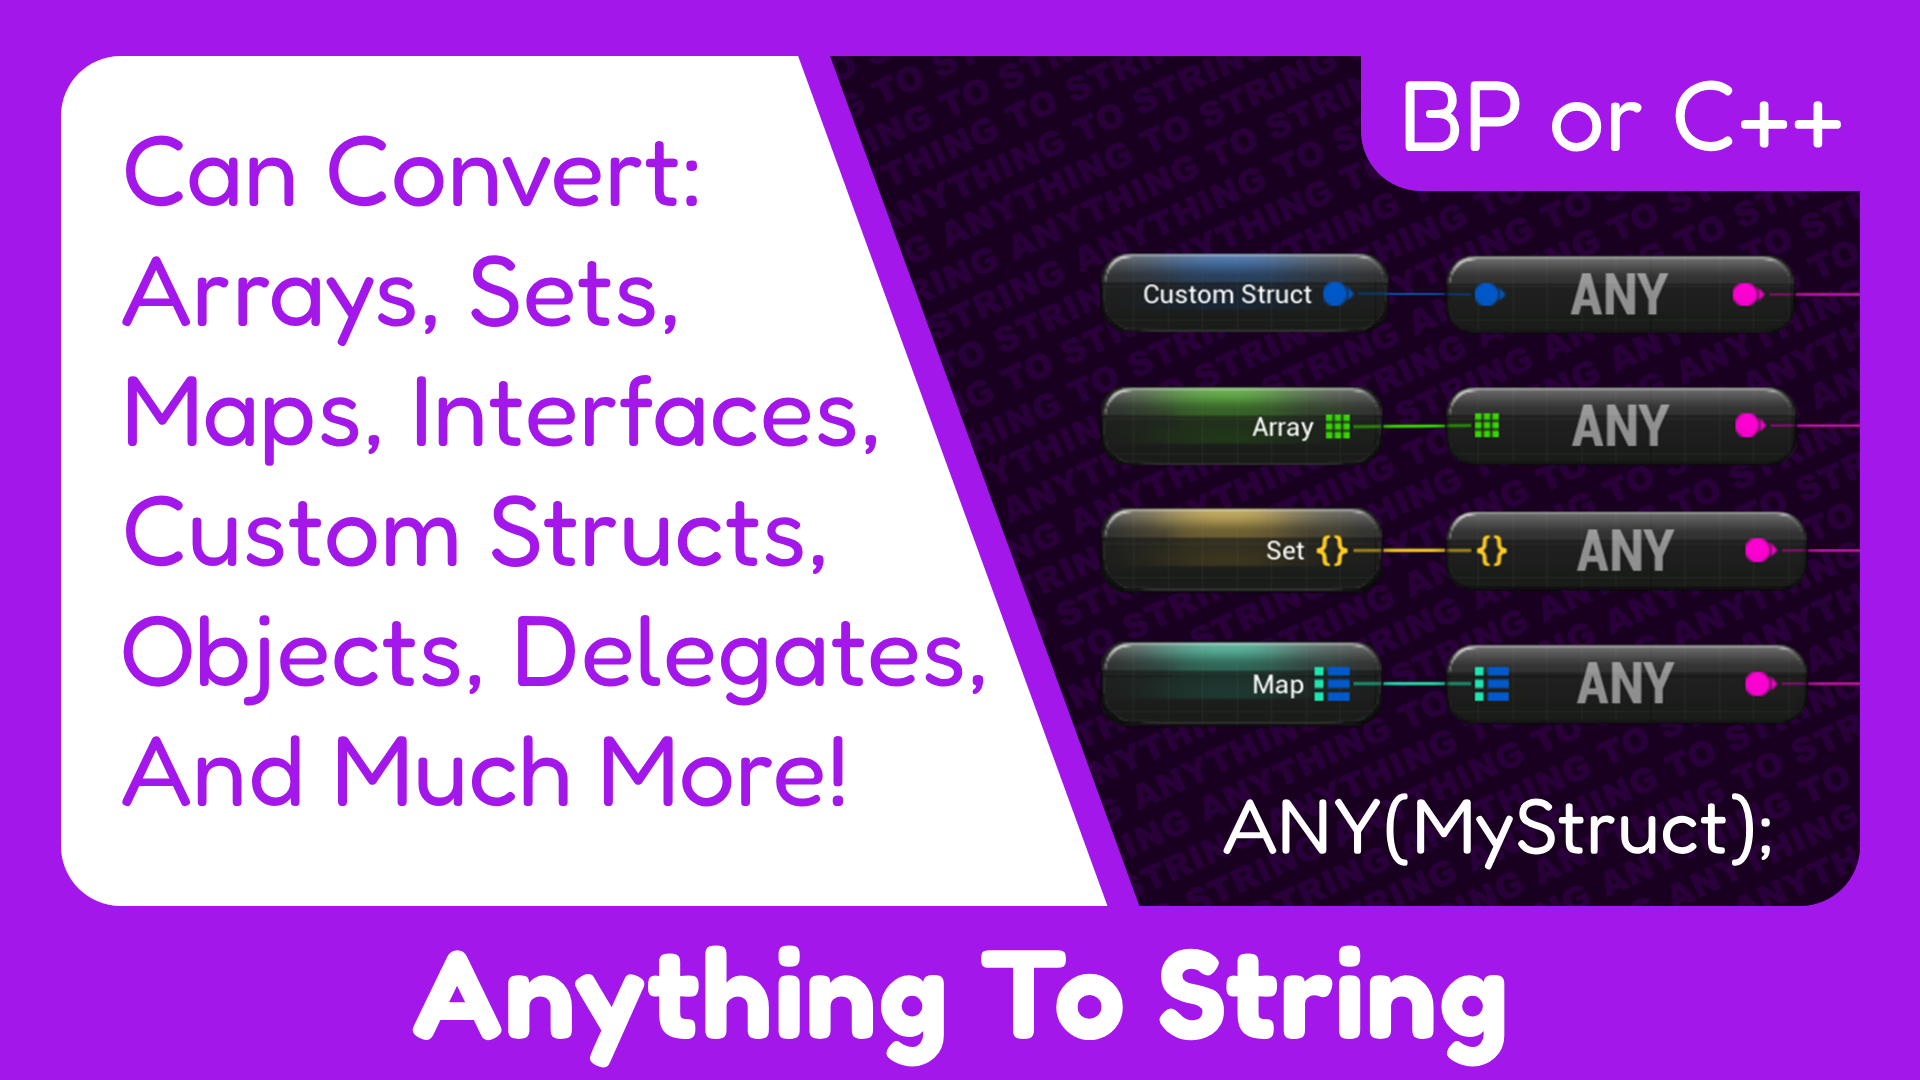
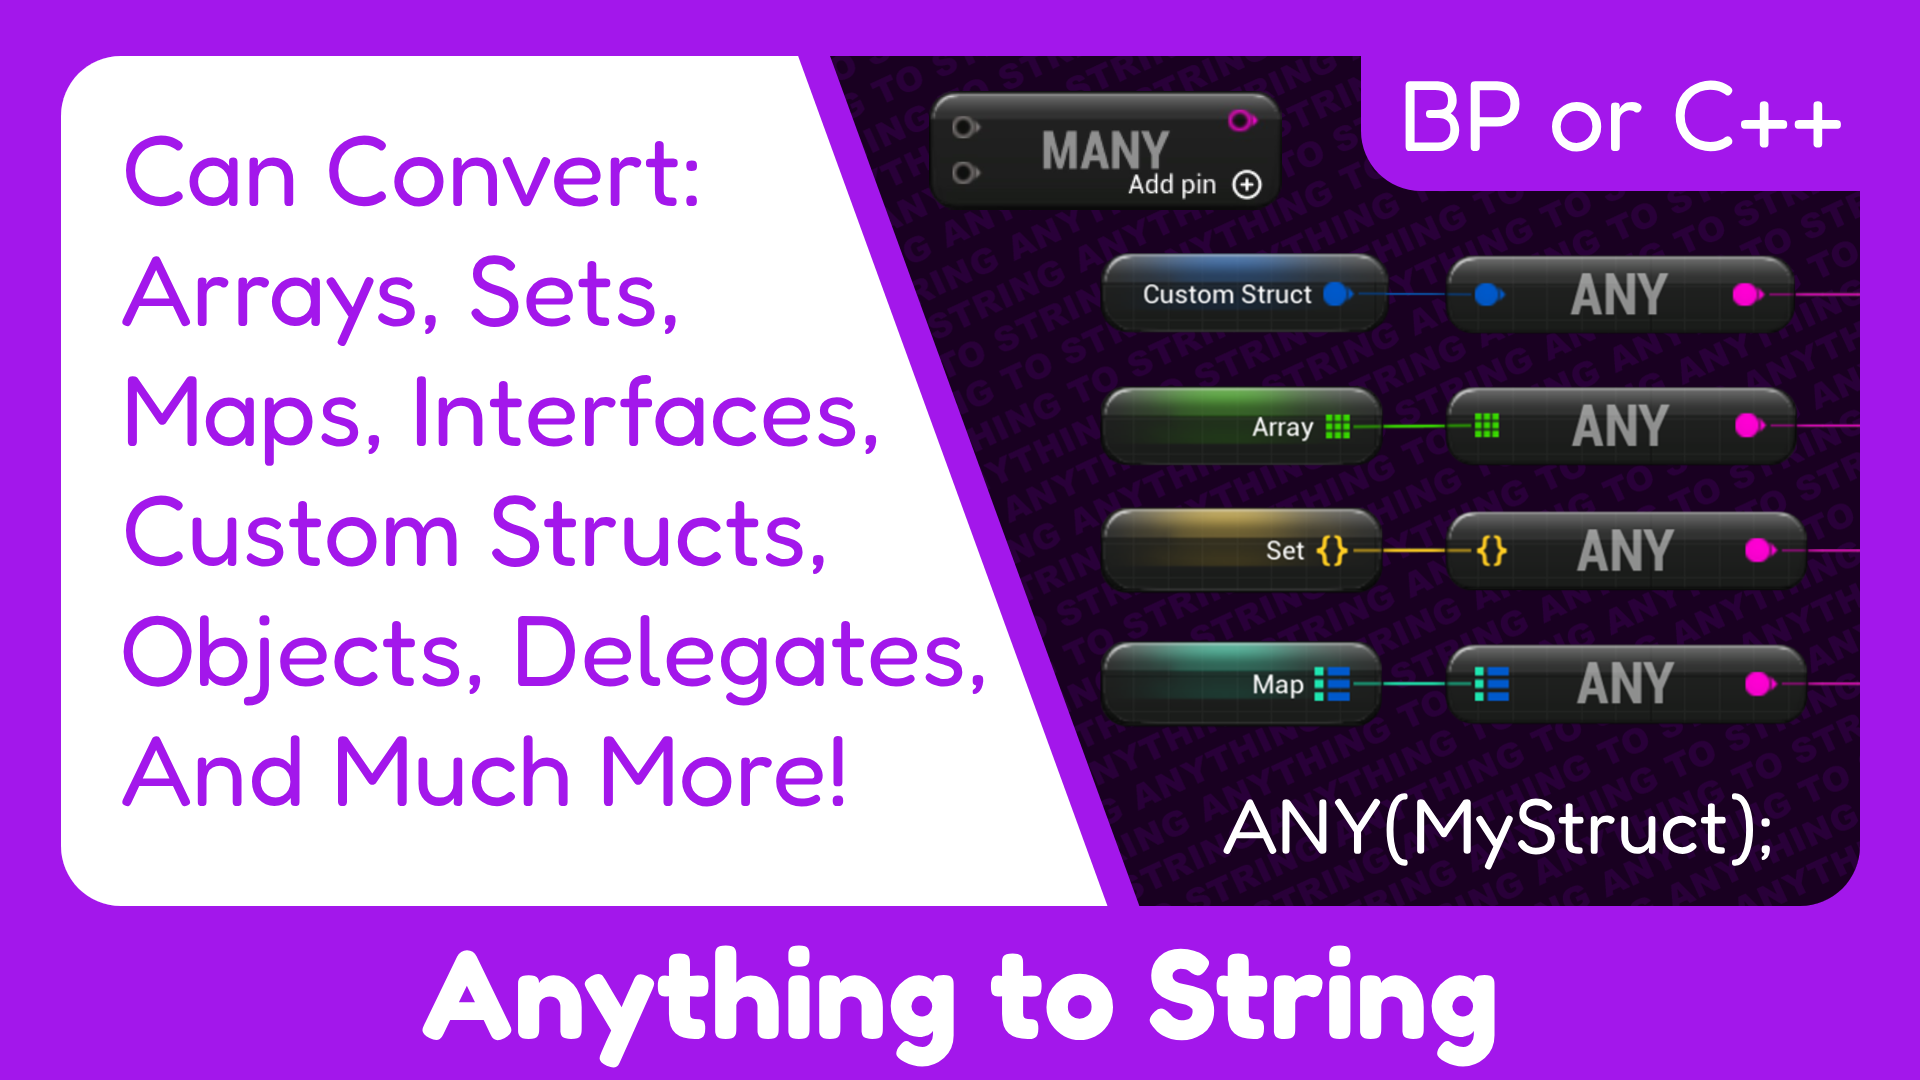
Added missing plugins

Changed region(s): [[0.2188, 0.8556, 0.7812, 1.0], [0.4688, 0.0611, 0.6875, 0.2139]]

diff --git a/index.html b/index.html
@@ -162,13 +162,16 @@
   
     <div class="slider-container swiper">
       <div class="card-slider swiper-wrapper">
-          <div class="card swiper-slide" id="AnythingToString"><a href="https://www.fab.com/listings/c266d579-4e7f-43c5-a766-3dcc2196646b" target="_blank" aria-label="View in Fab"><img src="https://static.fab.com/static/builds/web/dist/frontend/assets/images/common/logo/e1e12dc6142410b391ce48e416261ad7-v1.svg"></a></div>
-          <div class="card swiper-slide" id="ColorUtilities"><a href="https://www.fab.com/listings/0dfcb024-9c3b-483b-ad6a-1cd75afc2f4f" target="_blank" aria-label="View in Fab"><img src="https://static.fab.com/static/builds/web/dist/frontend/assets/images/common/logo/e1e12dc6142410b391ce48e416261ad7-v1.svg"></a></div>
-          <div class="card swiper-slide" id="ConciseNodes"><a href="https://www.fab.com/listings/24a4419f-f26e-435e-9026-b7b8796d43d3" target="_blank" aria-label="View in Fab"><img src="https://static.fab.com/static/builds/web/dist/frontend/assets/images/common/logo/e1e12dc6142410b391ce48e416261ad7-v1.svg"></a></div>
-          <div class="card swiper-slide" id="ECF"><a href="https://www.fab.com/listings/38c1b9c7-2157-4981-8c51-4244cd765cac" target="_blank" aria-label="View in Fab"><img src="https://static.fab.com/static/builds/web/dist/frontend/assets/images/common/logo/e1e12dc6142410b391ce48e416261ad7-v1.svg"></a></div>
-          <div class="card swiper-slide" id="MathOps"><a href="https://www.fab.com/listings/5937f384-b8a5-4e53-9b13-0b1d76953d9e" target="_blank" aria-label="View in Fab"><img src="https://static.fab.com/static/builds/web/dist/frontend/assets/images/common/logo/e1e12dc6142410b391ce48e416261ad7-v1.svg"></a></div>
-          <div class="card swiper-slide" id="NumericLiterals"><a href="https://www.fab.com/listings/ecde29ce-bfd1-4ef5-9e30-ebf83faa259b" target="_blank" aria-label="View in Fab"><img src="https://static.fab.com/static/builds/web/dist/frontend/assets/images/common/logo/e1e12dc6142410b391ce48e416261ad7-v1.svg"></a></div>
-          <div class="card swiper-slide" id="WidgetUtilities"><a href="https://www.fab.com/listings/76845c5f-8df8-4132-abe7-1ba955f6381f" target="_blank" aria-label="View in Fab"><img src="https://static.fab.com/static/builds/web/dist/frontend/assets/images/common/logo/e1e12dc6142410b391ce48e416261ad7-v1.svg"></a></div>
+          <div class="card swiper-slide" id="AnyVariant"><a href="https://www.fab.com/listings/6e022eba-7a0f-497a-8429-16167b28e99b" target="_blank" aria-label="View in Fab" rel="noopener"><img src="https://static.fab.com/static/builds/web/dist/frontend/assets/images/common/logo/e1e12dc6142410b391ce48e416261ad7-v1.svg"></a></div>  
+          <div class="card swiper-slide" id="AnythingToString"><a href="https://www.fab.com/listings/c266d579-4e7f-43c5-a766-3dcc2196646b" target="_blank" aria-label="View in Fab" rel="noopener"><img src="https://static.fab.com/static/builds/web/dist/frontend/assets/images/common/logo/e1e12dc6142410b391ce48e416261ad7-v1.svg"></a></div>
+          <div class="card swiper-slide" id="ColorUtilities"><a href="https://www.fab.com/listings/0dfcb024-9c3b-483b-ad6a-1cd75afc2f4f" target="_blank" aria-label="View in Fab" rel="noopener"><img src="https://static.fab.com/static/builds/web/dist/frontend/assets/images/common/logo/e1e12dc6142410b391ce48e416261ad7-v1.svg"></a></div>
+          <div class="card swiper-slide" id="ConciseNodes"><a href="https://www.fab.com/listings/24a4419f-f26e-435e-9026-b7b8796d43d3" target="_blank" aria-label="View in Fab" rel="noopener"><img src="https://static.fab.com/static/builds/web/dist/frontend/assets/images/common/logo/e1e12dc6142410b391ce48e416261ad7-v1.svg"></a></div>
+          <div class="card swiper-slide" id="ECF"><a href="https://www.fab.com/listings/38c1b9c7-2157-4981-8c51-4244cd765cac" target="_blank" aria-label="View in Fab" rel="noopener"><img src="https://static.fab.com/static/builds/web/dist/frontend/assets/images/common/logo/e1e12dc6142410b391ce48e416261ad7-v1.svg"></a></div>
+          <div class="card swiper-slide" id="ForEachMapSet"><a href="https://www.fab.com/listings/0a911dc8-92ce-49d7-9e6d-c99552edc62f" target="_blank" aria-label="View in Fab" rel="noopener"><img src="https://static.fab.com/static/builds/web/dist/frontend/assets/images/common/logo/e1e12dc6142410b391ce48e416261ad7-v1.svg"></a></div>
+          <div class="card swiper-slide" id="GraphTheory"><a href="https://www.fab.com/listings/8506ef6e-bc84-4287-bf50-d5e38d2718c8" target="_blank" aria-label="View in Fab" rel="noopener"><img src="https://static.fab.com/static/builds/web/dist/frontend/assets/images/common/logo/e1e12dc6142410b391ce48e416261ad7-v1.svg"></a></div>
+          <div class="card swiper-slide" id="MathOps"><a href="https://www.fab.com/listings/5937f384-b8a5-4e53-9b13-0b1d76953d9e" target="_blank" aria-label="View in Fab" rel="noopener"><img src="https://static.fab.com/static/builds/web/dist/frontend/assets/images/common/logo/e1e12dc6142410b391ce48e416261ad7-v1.svg"></a></div>
+          <div class="card swiper-slide" id="NumericLiterals"><a href="https://www.fab.com/listings/ecde29ce-bfd1-4ef5-9e30-ebf83faa259b" target="_blank" aria-label="View in Fab" rel="noopener"><img src="https://static.fab.com/static/builds/web/dist/frontend/assets/images/common/logo/e1e12dc6142410b391ce48e416261ad7-v1.svg"></a></div>
+          <div class="card swiper-slide" id="WidgetUtilities"><a href="https://www.fab.com/listings/76845c5f-8df8-4132-abe7-1ba955f6381f" target="_blank" aria-label="View in Fab" rel="noopener"><img src="https://static.fab.com/static/builds/web/dist/frontend/assets/images/common/logo/e1e12dc6142410b391ce48e416261ad7-v1.svg"></a></div>
       </div>
 
       <!-- If we need pagination -->

diff --git a/css/uePlugins.min.css b/css/uePlugins.min.css
@@ -1,1 +1,1 @@
-.card-slider .card{width:320px;height:180px;margin-bottom:40px;border-radius:8px;background-color:#3498db}.card#AnythingToString{background-image:url("/img/UEPlugins/AnythingToString.png")}.card#ColorUtilities{background-image:url("/img/UEPlugins/ColorUtilities.png")}.card#ConciseNodes{background-image:url("/img/UEPlugins/ConciseNodes.png")}.card#ECF{background-image:url("/img/UEPlugins/ECF.png")}.card#MathOps{background-image:url("/img/UEPlugins/MathOps.png")}.card#NumericLiterals{background-image:url("/img/UEPlugins/NumericLiterals.png")}.card#WidgetUtilities{background-image:url("/img/UEPlugins/WidgetUtilities.png")}.card{position:relative}.card img{position:absolute;bottom:4%;right:2.25%;width:14%;opacity:0%;filter:drop-shadow(3px 3px 2px rgba(0, 0, 0, 0.7));transition:opacity .2s ease-in-out,scale .2s ease-in-out;scale:100%}.card:hover img{opacity:100%}.card img:hover{scale:120%;cursor:pointer}.slider-container{margin:0 70px 0}
+.card-slider .card{width:320px;height:180px;margin-bottom:40px;border-radius:8px;background-color:#3498db}.card#AnyVariant{background-image:url("/img/UEPlugins/AnyVariant.png")}.card#AnythingToString{background-image:url("/img/UEPlugins/AnythingToString.png")}.card#ColorUtilities{background-image:url("/img/UEPlugins/ColorUtilities.png")}.card#ConciseNodes{background-image:url("/img/UEPlugins/ConciseNodes.png")}.card#ECF{background-image:url("/img/UEPlugins/ECF.png")}.card#ForEachMapSet{background-image:url("/img/UEPlugins/ForEachMapSet.png")}.card#GraphTheory{background-image:url("/img/UEPlugins/GraphTheory.png")}.card#MathOps{background-image:url("/img/UEPlugins/MathOps.png")}.card#NumericLiterals{background-image:url("/img/UEPlugins/NumericLiterals.png")}.card#WidgetUtilities{background-image:url("/img/UEPlugins/WidgetUtilities.png")}.card{position:relative}.card img{position:absolute;bottom:4%;right:2.25%;width:14%;opacity:0%;filter:drop-shadow(3px 3px 2px rgba(0, 0, 0, 0.7));transition:opacity .2s ease-in-out,scale .2s ease-in-out;scale:100%}.card:hover img{opacity:100%}.card img:hover{scale:120%;cursor:pointer}.slider-container{margin:0 70px 0}

diff --git a/scss/uePlugins.scss b/scss/uePlugins.scss
@@ -39,10 +39,13 @@
     background-color: #3498db;
 }
 
+.card#AnyVariant        { background-image: url("/img/UEPlugins/AnyVariant.png"); }
 .card#AnythingToString  { background-image: url("/img/UEPlugins/AnythingToString.png"); }
 .card#ColorUtilities    { background-image: url("/img/UEPlugins/ColorUtilities.png"); }
 .card#ConciseNodes      { background-image: url("/img/UEPlugins/ConciseNodes.png"); }
 .card#ECF               { background-image: url("/img/UEPlugins/ECF.png"); }
+.card#ForEachMapSet     { background-image: url("/img/UEPlugins/ForEachMapSet.png"); }
+.card#GraphTheory       { background-image: url("/img/UEPlugins/GraphTheory.png"); }
 .card#MathOps           { background-image: url("/img/UEPlugins/MathOps.png"); }
 .card#NumericLiterals   { background-image: url("/img/UEPlugins/NumericLiterals.png"); }
 .card#WidgetUtilities   { background-image: url("/img/UEPlugins/WidgetUtilities.png"); }
